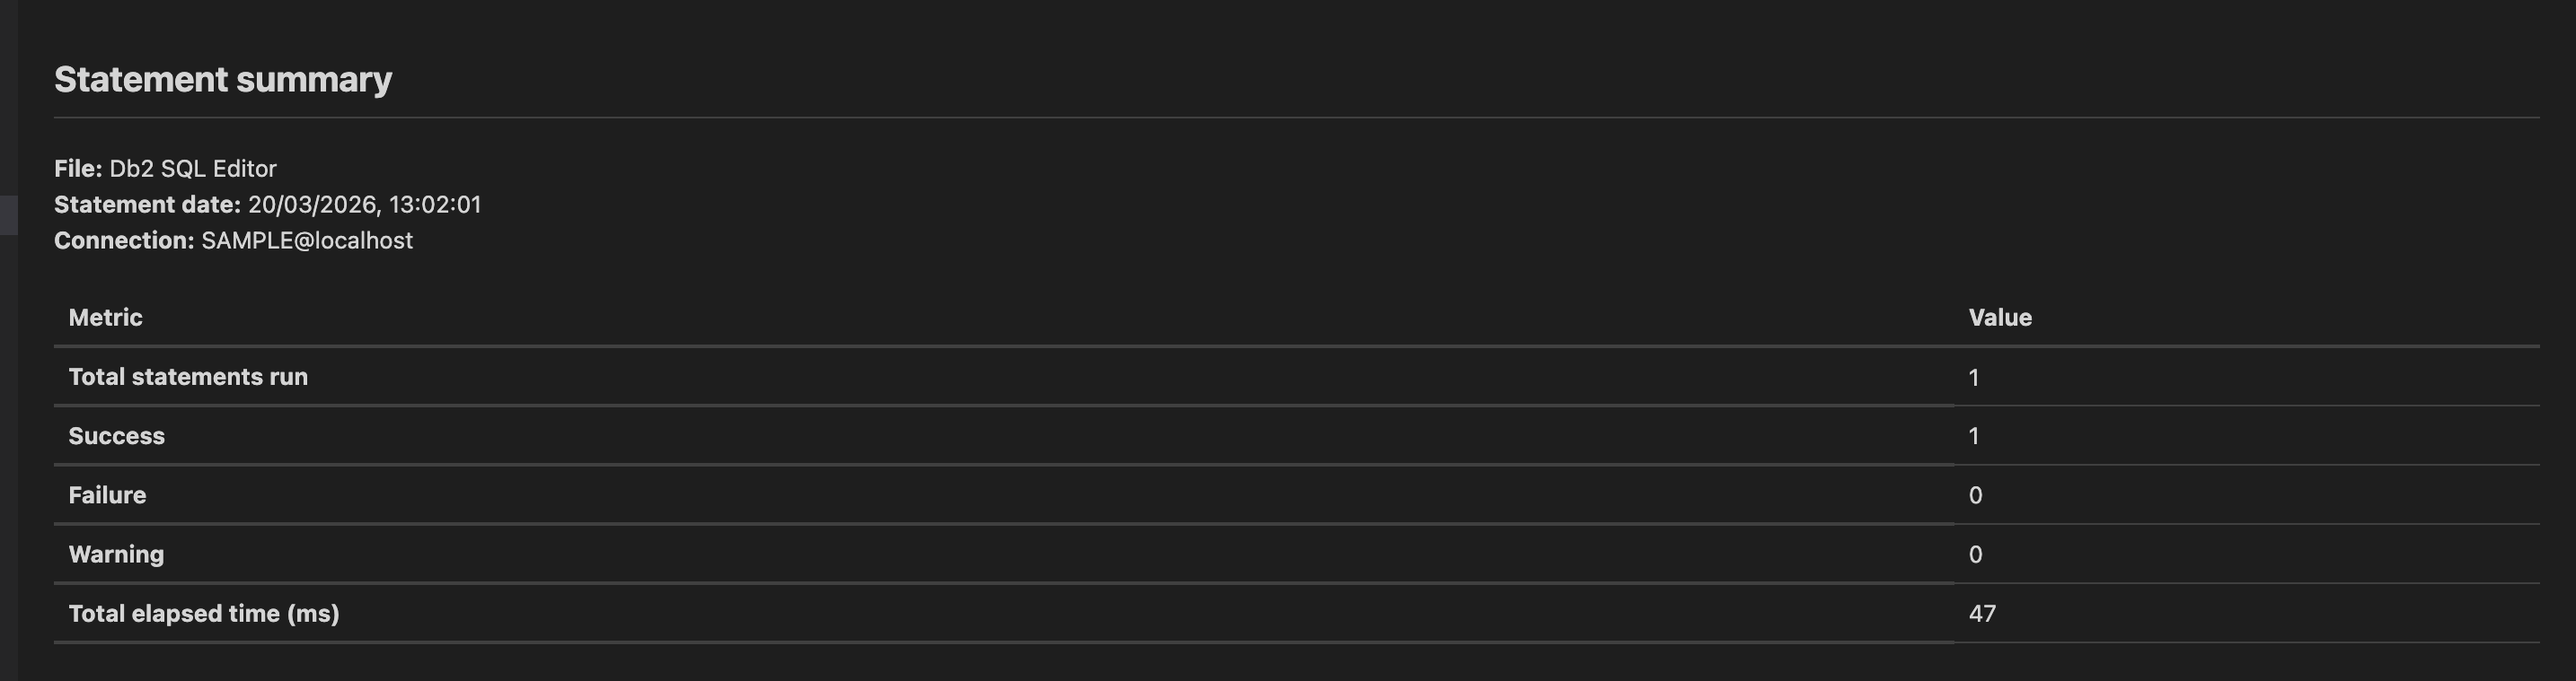
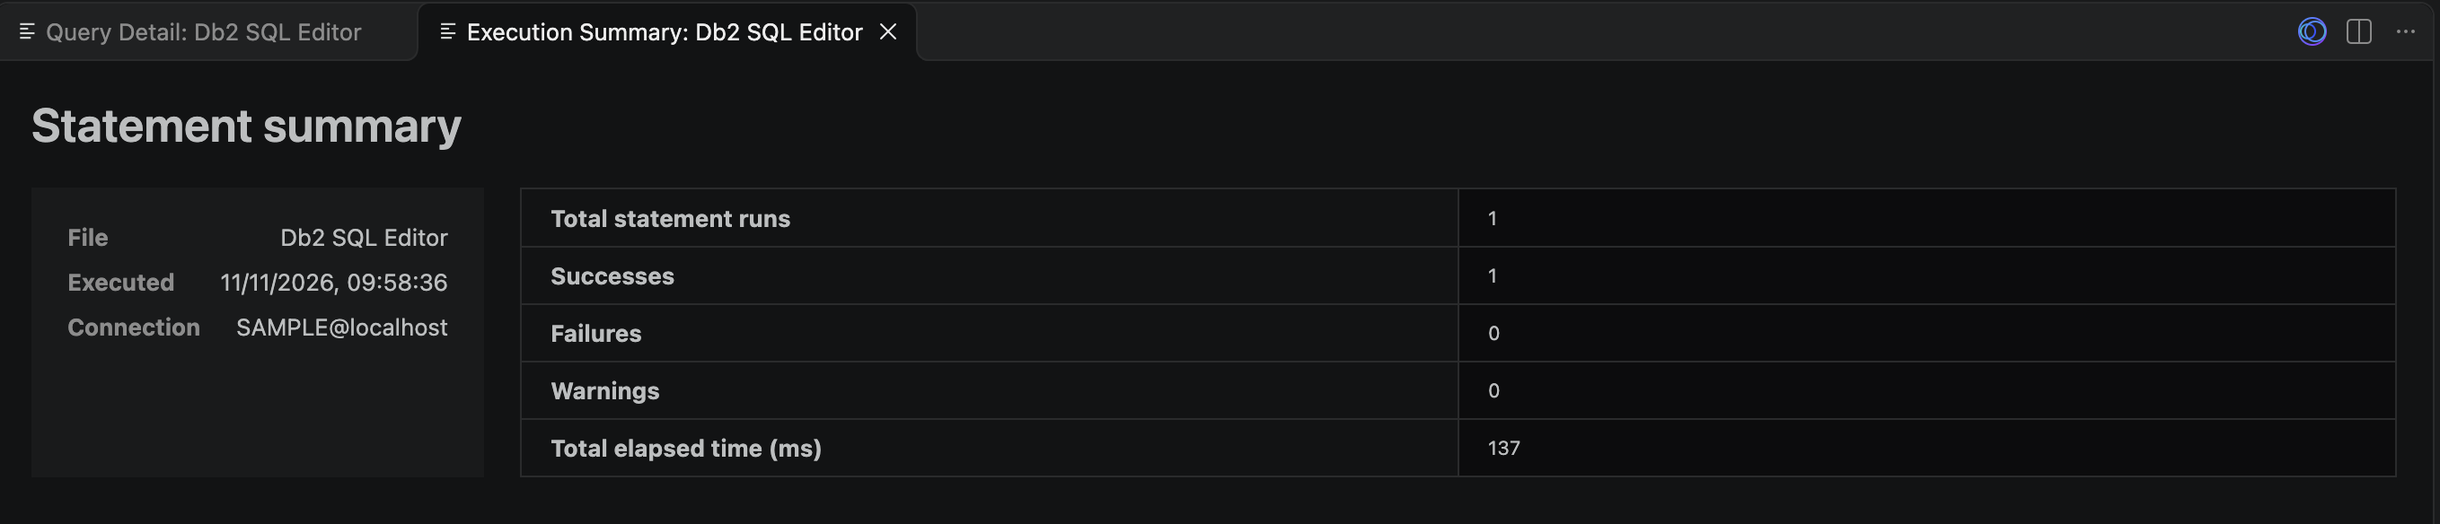
updated the topics

diff --git a/docs/working-with-Db2-objects/db2-time-machine.md b/docs/working-with-Db2-objects/db2-time-machine.md
@@ -10,6 +10,7 @@ Db2 Time Machine lets you view how the data in a temporal table looked at a spec
 
 Db2 Time Machine is locked until you log in to Genius Hub. Log in to Genius Hub before you use the feature. For more information, see [Connecting to Genius Hub]({{site.baseurl}}/docs/working-with-sql/querying-data-by-using-natural-language#connecting-to-genius-hub).
 
+
 ## Viewing the history of a temporal table
 
 A temporal table records every change (INSERT, UPDATE, and DELETE) so that you can query the data as it looked at any past moment.
@@ -17,7 +18,7 @@ A temporal table records every change (INSERT, UPDATE, and DELETE) so that you c
 1. In the **Db2 Connections** pane, expand the connection, schema, and **Tables** folder.
 2. Right-click the table, and then click **See History**.
 
-   The table details open on the **History** tab. You can also open the table and click the **History** tab.
+   The table details open on the **Time Machine** tab. You can also open the table and click the **Time Machine** tab.
 
 3. In the **View data as of** field, select the date and time that you want to view. To select the date and time, use one of the following methods:
    - In the **Timeline navigator**, drag the slider to a year between 2000 and the current year, or click one of the **Jump to** buttons.
@@ -36,18 +37,22 @@ Each time you view the history of a table, IBM Db2 Genius Code saves an entry to
 
 ## Enabling history tracking for a table
 
-If the table that you select is not a temporal table, the **History** tab shows the message **This table doesn't track history yet**. The tab also shows the SQL statements that you need to run to add history tracking to the table.
+If the table that you select is not a temporal table, the **Time Machine** tab shows the message **You can time travel through _table name_ soon** and indicates that the table does not yet track history.
 
-1. Click **Copy SQL**.
-2. Open a **Db2 SQL Editor** that is connected to the same database, and paste the statements.
-3. Run the statements in the order they are shown:
-   - **Step 1**: Add the system-period columns `SYS_START`, `SYS_END`, and `TS_ID` to the table.
-   - **Step 2**: Define the `SYSTEM_TIME` period by using `SYS_START` and `SYS_END`.
-   - **Step 3**: Create a history table that has the same structure as the table. The history table name is the table name followed by `_HISTORY`.
-   - **Step 4**: Enable versioning by associating the history table with the table.
-4. Refresh the table, and then open the **History** tab again.
+### Converting a table to a temporal table by using Genius AI
 
-To learn more about temporal tables, click **Db2 docs** on the **History** tab.
+1. On the **Time Machine** tab, click **Convert using Genius AI**.
+
+   Genius AI generates the SQL statements needed to convert the table to a temporal table and displays them in the **Genius AI** panel.
+
+2. Click **Open** (↗) to open the generated statements in the **Db2 SQL Editor**.
+3. Run the statements one by one in the order they are shown:
+   - **Step 1**: Add the system-period columns `SYS_START`, `SYS_END`, and `TRANS_ID` to the table.
+   - **Step 2**: Create a history table that has the same structure as the table. The history table name is the table name followed by `_HISTORY`.
+   - **Step 3**: Enable versioning by linking the base table to the history table.
+4. Refresh the table, and then open the **Time Machine** tab again.
+
+To learn more about temporal tables, click **Db2 docs** on the **Time Machine** tab.
 
 **Note:** Db2 captures history from the moment that versioning is enabled. Earlier changes are not tracked retroactively.
 

diff --git a/docs/working-with-sql/query-history.md b/docs/working-with-sql/query-history.md
@@ -36,14 +36,16 @@ Query history is persistent — your previously run queries are retained even af
       - Warning: Number of statements that completed with warnings.
       - Total elapsed time (ms): The cumulative time taken to run all the statements in the group, in milliseconds.
 
-3. Expand a timestamped query group to display the individual SQL statements executed during that session. Click a statement to open its **Query Result** view in the editor.
+3. Expand a timestamped query group to display the individual SQL statements executed during that session. Click a statement to open its **Query Detail** view.
 
-   The **Query Result** view provides the following information and actions:
+   The **Query Detail** view opens in a new window and provides the following information and actions:
+
+   ![Query Detail view]({{site.baseurl}}/assets/images/query-details.png)
 
    - **SQL Statement panel**:
      - Shows the full SQL query text.
      - **Copy icon**: Copies the SQL statement to your clipboard.
-     - **Run icon** (▶): Runs the query directly from the Query Result view. The results are displayed in the terminal.
+     - **Run icon** (▶): Runs the query directly from the Query Detail view. A prompt appears to select the database connection, and the results are displayed in the results window.
      - **Open button** (**Open ↗**): Opens the query in the **Db2 SQL Editor**, where you can modify and run the SQL statement.
    - **Status panel**:
      - **Message**: Status text describing the execution result (for example, *Query processed successfully*).
@@ -53,10 +55,10 @@ Query history is persistent — your previously run queries are retained even af
    - **Execution details**:
      - **File**: Source file or editor from which the query was executed (for example, *Db2 SQL Editor*).
      - **Executed**: Date and time when the query was run.
-     - **Connection**: Database connection profile used (for example, *TESTDB@localhost*).
+     - **Connection**: Database connection profile used (for example, *SAMPLE@localhost*).
      - **Elapsed time (ms)**: Total execution duration in milliseconds.
    - **Past results**:
-     - Expand the **Past results** section to view past query results or historical execution records.
+     - Expand the **Past results** section to view the query output in a table. You can sort any column in ascending or descending order by clicking the column header.
 
 ## Using Genius AI options with Query History
 ---

diff --git a/docs/working-with-sql/generating-SQL-statement.md b/docs/working-with-sql/generating-SQL-statement.md
@@ -14,12 +14,11 @@ You can generate SQL statements by multiple methods:
 ---
 
 1. Click **Open SQL Editor** (![Opening a new SQL editor]({{site.baseurl}}/assets/images/open-sql-editor.png){:width="25" :height="25"}) in the Db2 Connections pane. **Db2 SQL Editor** opens.
-
-
-    ![Adding a database connection]({{site.baseurl}}/assets/images/create-sql-open-sql-editor.png)
 2. Select the connection from the dropdown menu.
 3. In the editor, write your SQL statements.
-4. Click **Run** to run the SQL statement. Your results appear in the **Results** pane.
+4. Click **Run** to run the SQL statement. Your results appear in the results window.
+
+    ![Query results window]({{site.baseurl}}/assets/images/results-window.png)
 5. Click **Export** to download the results in CSV or JSON format.
 
   > **Note**: You can save your SQL statements in .sql or .db2.sql format by clicking **Save**.
@@ -48,9 +47,7 @@ You can generate SQL statements by multiple methods:
 
     When you select a snippet, the editor inserts the corresponding SQL template into your current SQL editor.
 
-7. Click Run SQL to run the queries. 
-    The Query **Result** tab opens to view the query output in a table format.
-    Switch to the **Status** tab to view the execution details such as timestamp, SQL statement, return code, and elapsed time.
+7. Click **Run SQL** to run the queries. The results appear in the results window.
 8. Save the file with a .sql extension.
 
     > **Note**:

diff --git a/docs/working-with-sql/viewing-and-visualizing-query-results.md b/docs/working-with-sql/viewing-and-visualizing-query-results.md
@@ -6,6 +6,8 @@ title: "Viewing and visualizing query results"
 
 When you run SQL statements in IBM Db2 Genius Code, the query results are displayed in the **DB2 GENIUS CODE** panel in the terminal area. Each executed query generates its own tab (for example, **Query 1**, **Query 2**), allowing you to review, search, filter, export, and visualize your data interactively.
 
+![Query results window]({{site.baseurl}}/assets/images/results-window.png)
+
 ## Working with tabular results
 
 The table view presents your query results in a structured grid with the following interactive features:
